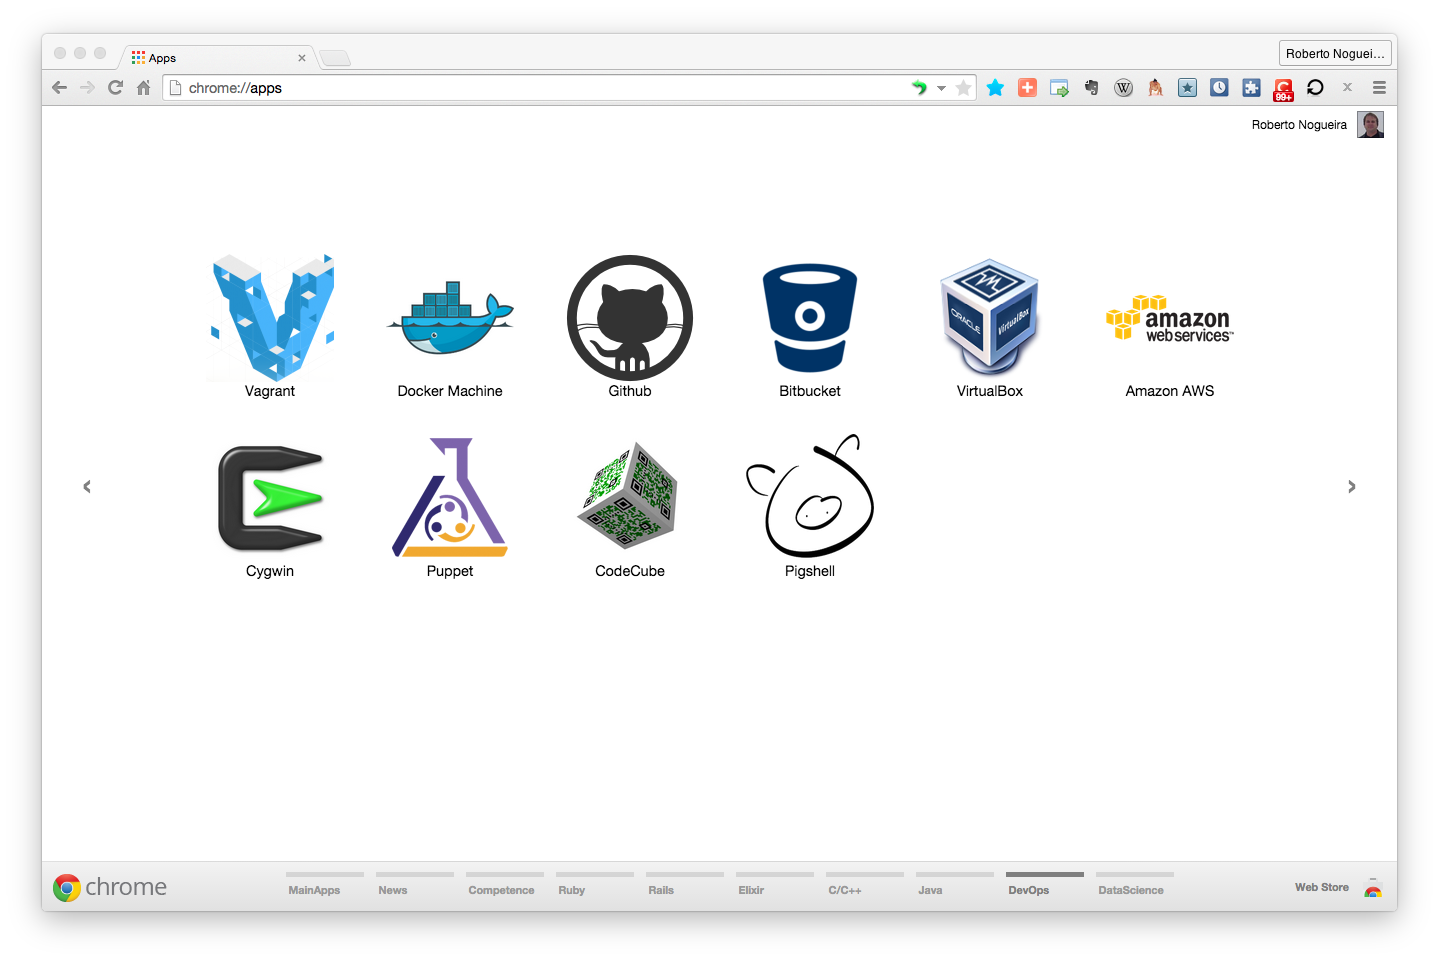
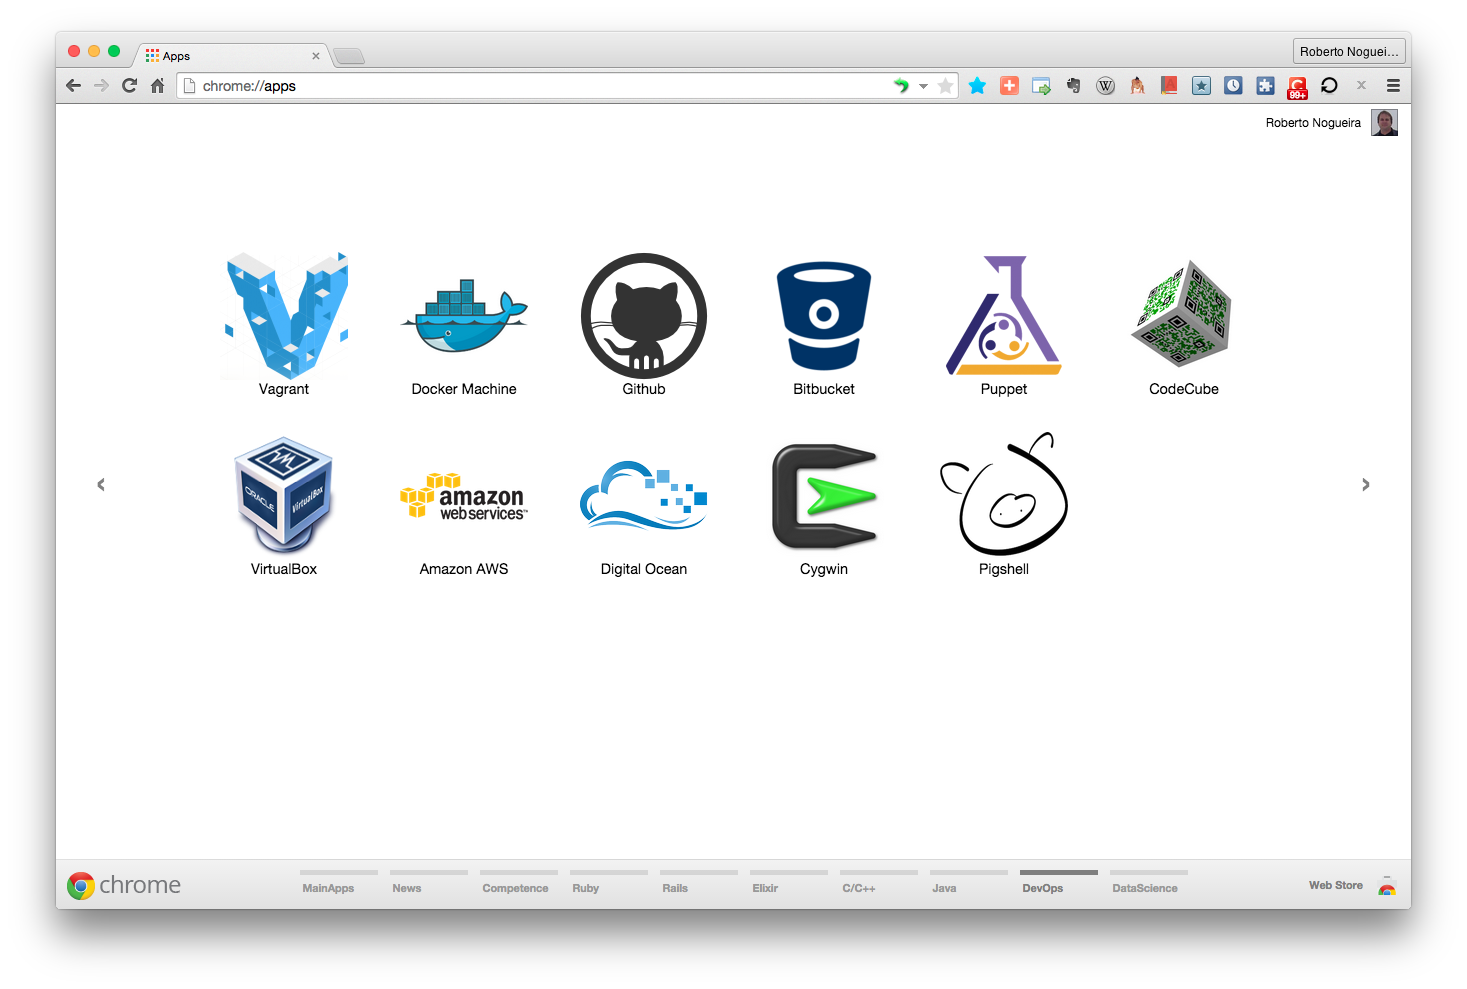
Update DigitalOcean app

diff --git a/README.md b/README.md
@@ -26,10 +26,11 @@ drwxr-xr-x   32 enogrob  staff   1.1K Apr 28 18:57 ChromeApps_DevOps/
 -rw-r--r--    1 enogrob  staff   141B Apr 28 18:48 today_data.yaml
 
 $ tree -L 1 ChromeApps_DevOps/
-ChromeApps_DevOps/
+ChromeApps_DevOps
 ├── DevOps-AmazonAWS
 ├── DevOps-BubbleConf
 ├── DevOps-Cygwin
+├── DevOps-DigitalOcean
 ├── DevOps-Docker
 ├── DevOps-DockerMachine
 ├── DevOps-Dockerhub
@@ -39,7 +40,6 @@ ChromeApps_DevOps/
 ├── DevOps-GoogleAppEngine
 ├── DevOps-GoogleGroups
 ├── DevOps-HTML
-├── DevOps-Heroku
 ├── DevOps-Livecode
 ├── DevOps-MySQL
 ├── DevOps-PostgreSQL
@@ -49,13 +49,14 @@ ChromeApps_DevOps/
 ├── DevOps-VirtualBox
 ├── Devops-Bitbucket
 ├── Devops-Github
+├── Devops-Heroku
 ├── Devops-Pigshell
 ├── Devops-Puppet
 ├── Devops-omniref
 ├── README.md
 └── images
 
-26 directories, 1 file
+27 directories, 1 file
 $
 ```
 
